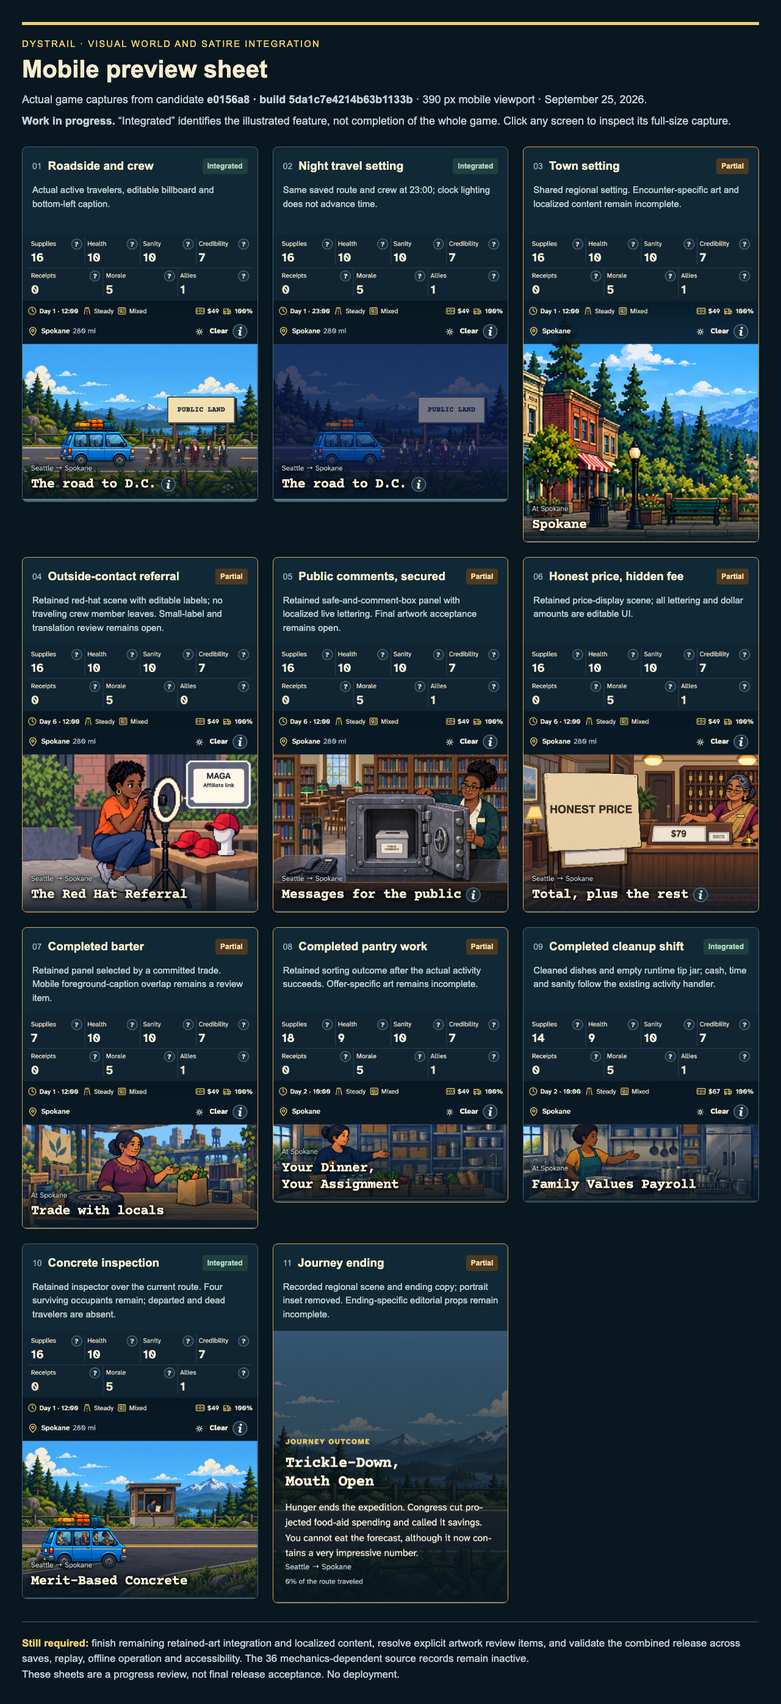
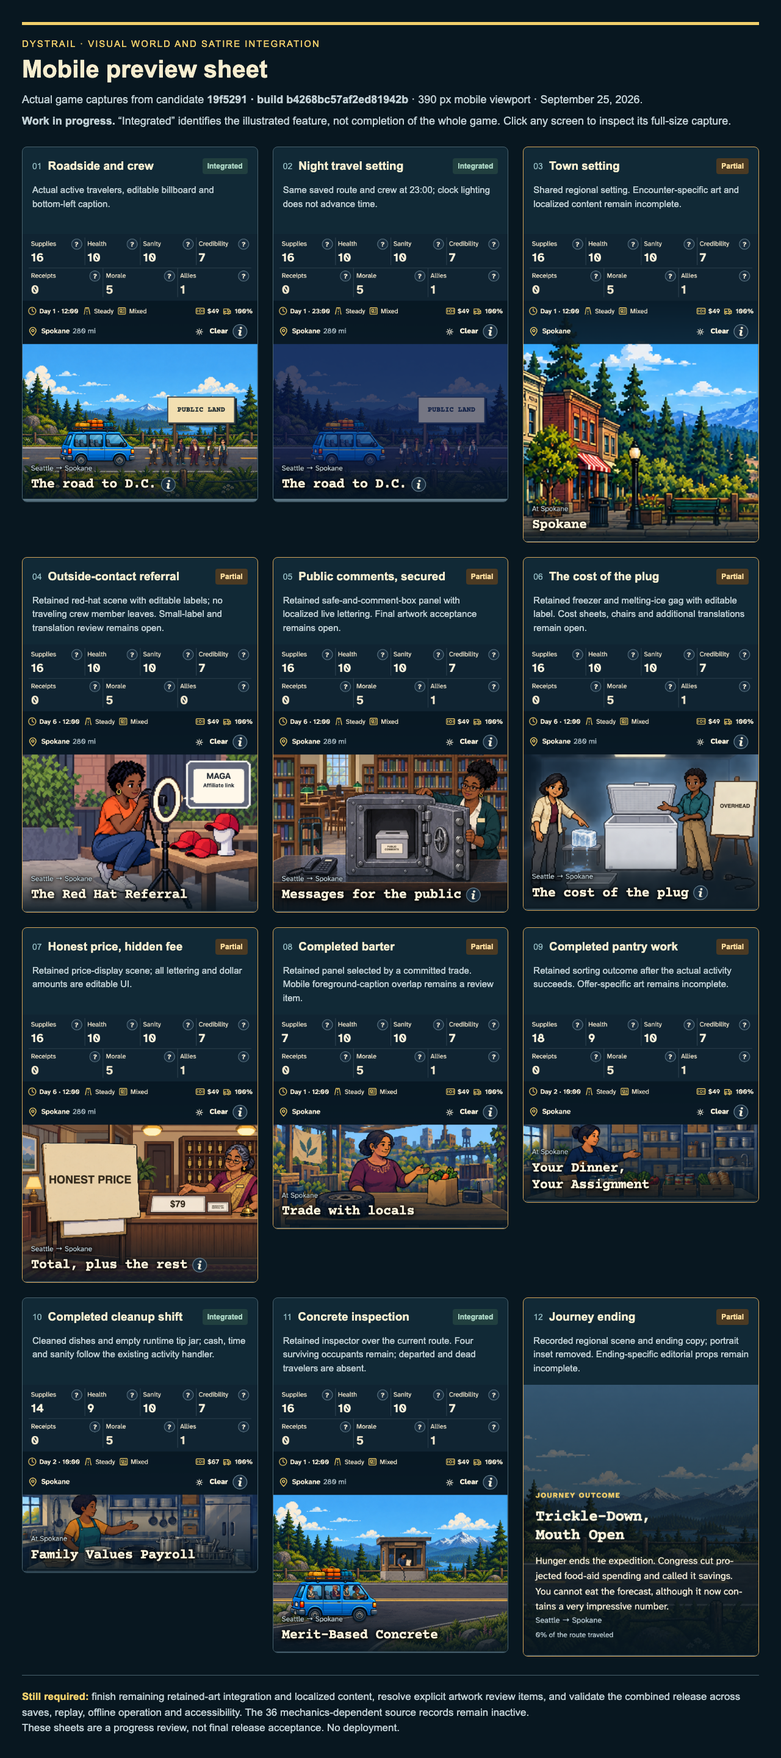
docs: include retained overhead scene in progress previews

diff --git a/review/recovery/current-previews/desktop.html b/review/recovery/current-previews/desktop.html
@@ -1,4 +1,4 @@
 <!doctype html><html lang="en"><meta charset="utf-8"><meta name="viewport" content="width=device-width,initial-scale=1"><title>Dystrail · desktop preview sheet</title><style>
   *{box-sizing:border-box}body{margin:0;background:#081720;color:#f6edcf;font-family:Arial,sans-serif;padding:36px}header{border-top:5px solid #f1cf6b;padding-top:22px;margin-bottom:28px}small{font-size:15px;letter-spacing:2px;text-transform:uppercase;color:#f1cf6b}h1{font-size:40px;margin:10px 0 14px}header p{font-size:18px;line-height:1.5;max-width:1200px;margin:8px 0;color:#c1d0d5}.grid{display:grid;grid-template-columns:repeat(2,minmax(0,1fr));gap:24px;align-items:start}article{border:1px solid #48616d;border-radius:8px;overflow:hidden;background:#112936}article.partial{border-color:#d3a359}.card-head{display:flex;align-items:center;gap:10px;padding:18px 16px 0}.number{color:#91b9c0;font-size:14px}h2{font-size:19px;line-height:1.25;margin:0;flex:1}b{color:#acd6c5;background:#213f3f;font-size:12px;padding:6px 8px;border-radius:4px;white-space:nowrap}.partial b{color:#ffe0a0;background:#4b3a23}article p{font-size:15px;line-height:1.5;color:#c1d0d5;padding:0 16px;min-height:68px}a{display:block}img{display:block;width:100%;height:auto}footer{border-top:1px solid #48616d;margin-top:30px;padding-top:22px;font-size:17px;line-height:1.5;color:#c1d0d5}footer strong{color:#f1cf6b}
   @media(max-width:800px){body{padding:16px}.grid{grid-template-columns:1fr}h1{font-size:30px}}
-  </style><header><small>Dystrail · visual world and satire integration</small><h1>Desktop preview sheet</h1><p>Actual game captures from candidate <strong>e0156a8 · build 5da1c7e4214b63b1133b</strong> · 1440 px desktop viewport · September 25, 2026.</p><p><strong>Work in progress.</strong> “Integrated” identifies the illustrated feature, not completion of the whole game. Click any screen to inspect its full-size capture.</p></header><main class="grid"><article class=""><div class="card-head"><span class="number">01</span><h2>Roadside and crew</h2><b>Integrated</b></div><p>Actual active travelers, editable billboard and bottom-left caption.</p><a href="desktop/road/shot-0.png"><img alt="Roadside and crew: actual desktop game capture" src="desktop/road/shot-0.png"></a></article><article class=""><div class="card-head"><span class="number">02</span><h2>Night travel setting</h2><b>Integrated</b></div><p>Same saved route and crew at 23:00; clock lighting does not advance time.</p><a href="desktop/night/shot-0.png"><img alt="Night travel setting: actual desktop game capture" src="desktop/night/shot-0.png"></a></article><article class="partial"><div class="card-head"><span class="number">03</span><h2>Town setting</h2><b>Partial</b></div><p>Shared regional setting. Encounter-specific art and localized content remain incomplete.</p><a href="desktop/town/shot-0.png"><img alt="Town setting: actual desktop game capture" src="desktop/town/shot-0.png"></a></article><article class="partial"><div class="card-head"><span class="number">04</span><h2>Outside-contact referral</h2><b>Partial</b></div><p>Retained red-hat scene with editable labels; no traveling crew member leaves. Small-label and translation review remains open.</p><a href="desktop/ally/shot-0.png"><img alt="Outside-contact referral: actual desktop game capture" src="desktop/ally/shot-0.png"></a></article><article class="partial"><div class="card-head"><span class="number">05</span><h2>Public comments, secured</h2><b>Partial</b></div><p>Retained safe-and-comment-box panel with localized live lettering. Final artwork acceptance remains open.</p><a href="desktop/safe/shot-0.png"><img alt="Public comments, secured: actual desktop game capture" src="desktop/safe/shot-0.png"></a></article><article class="partial"><div class="card-head"><span class="number">06</span><h2>Honest price, hidden fee</h2><b>Partial</b></div><p>Retained price-display scene; all lettering and dollar amounts are editable UI.</p><a href="desktop/fees/shot-0.png"><img alt="Honest price, hidden fee: actual desktop game capture" src="desktop/fees/shot-0.png"></a></article><article class="partial"><div class="card-head"><span class="number">07</span><h2>Completed barter</h2><b>Partial</b></div><p>Retained panel selected by a committed trade. Mobile foreground-caption overlap remains a review item.</p><a href="desktop/trade/shot-0.png"><img alt="Completed barter: actual desktop game capture" src="desktop/trade/shot-0.png"></a></article><article class="partial"><div class="card-head"><span class="number">08</span><h2>Completed pantry work</h2><b>Partial</b></div><p>Retained sorting outcome after the actual activity succeeds. Offer-specific art remains incomplete.</p><a href="desktop/pantry/shot-0.png"><img alt="Completed pantry work: actual desktop game capture" src="desktop/pantry/shot-0.png"></a></article><article class=""><div class="card-head"><span class="number">09</span><h2>Completed cleanup shift</h2><b>Integrated</b></div><p>Cleaned dishes and empty runtime tip jar; cash, time and sanity follow the existing activity handler.</p><a href="desktop/cleanup/shot-0.png"><img alt="Completed cleanup shift: actual desktop game capture" src="desktop/cleanup/shot-0.png"></a></article><article class=""><div class="card-head"><span class="number">10</span><h2>Concrete inspection</h2><b>Integrated</b></div><p>Retained inspector over the current route. Four surviving occupants remain; departed and dead travelers are absent.</p><a href="desktop/crossing/shot-0.png"><img alt="Concrete inspection: actual desktop game capture" src="desktop/crossing/shot-0.png"></a></article><article class="partial"><div class="card-head"><span class="number">11</span><h2>Journey ending</h2><b>Partial</b></div><p>Recorded regional scene and ending copy; portrait inset removed. Ending-specific editorial props remain incomplete.</p><a href="desktop/ending/shot-0.png"><img alt="Journey ending: actual desktop game capture" src="desktop/ending/shot-0.png"></a></article></main><footer><strong>Still required:</strong> finish remaining retained-art integration and localized content, resolve explicit artwork review items, and validate the combined release across saves, replay, offline operation and accessibility. The 36 mechanics-dependent source records remain inactive.<br>These sheets are a progress review, not final release acceptance. No deployment.</footer></html>
+  </style><header><small>Dystrail · visual world and satire integration</small><h1>Desktop preview sheet</h1><p>Actual game captures from candidate <strong>19f5291 · build b4268bc57af2ed81942b</strong> · 1440 px desktop viewport · September 25, 2026.</p><p><strong>Work in progress.</strong> “Integrated” identifies the illustrated feature, not completion of the whole game. Click any screen to inspect its full-size capture.</p></header><main class="grid"><article class=""><div class="card-head"><span class="number">01</span><h2>Roadside and crew</h2><b>Integrated</b></div><p>Actual active travelers, editable billboard and bottom-left caption.</p><a href="desktop/road/shot-0.png"><img alt="Roadside and crew: actual desktop game capture" src="desktop/road/shot-0.png"></a></article><article class=""><div class="card-head"><span class="number">02</span><h2>Night travel setting</h2><b>Integrated</b></div><p>Same saved route and crew at 23:00; clock lighting does not advance time.</p><a href="desktop/night/shot-0.png"><img alt="Night travel setting: actual desktop game capture" src="desktop/night/shot-0.png"></a></article><article class="partial"><div class="card-head"><span class="number">03</span><h2>Town setting</h2><b>Partial</b></div><p>Shared regional setting. Encounter-specific art and localized content remain incomplete.</p><a href="desktop/town/shot-0.png"><img alt="Town setting: actual desktop game capture" src="desktop/town/shot-0.png"></a></article><article class="partial"><div class="card-head"><span class="number">04</span><h2>Outside-contact referral</h2><b>Partial</b></div><p>Retained red-hat scene with editable labels; no traveling crew member leaves. Small-label and translation review remains open.</p><a href="desktop/ally/shot-0.png"><img alt="Outside-contact referral: actual desktop game capture" src="desktop/ally/shot-0.png"></a></article><article class="partial"><div class="card-head"><span class="number">05</span><h2>Public comments, secured</h2><b>Partial</b></div><p>Retained safe-and-comment-box panel with localized live lettering. Final artwork acceptance remains open.</p><a href="desktop/safe/shot-0.png"><img alt="Public comments, secured: actual desktop game capture" src="desktop/safe/shot-0.png"></a></article><article class="partial"><div class="card-head"><span class="number">06</span><h2>The cost of the plug</h2><b>Partial</b></div><p>Retained freezer and melting-ice gag with editable label. Cost sheets, chairs and additional translations remain open.</p><a href="desktop/overhead/shot-0.png"><img alt="The cost of the plug: actual desktop game capture" src="desktop/overhead/shot-0.png"></a></article><article class="partial"><div class="card-head"><span class="number">07</span><h2>Honest price, hidden fee</h2><b>Partial</b></div><p>Retained price-display scene; all lettering and dollar amounts are editable UI.</p><a href="desktop/fees/shot-0.png"><img alt="Honest price, hidden fee: actual desktop game capture" src="desktop/fees/shot-0.png"></a></article><article class="partial"><div class="card-head"><span class="number">08</span><h2>Completed barter</h2><b>Partial</b></div><p>Retained panel selected by a committed trade. Mobile foreground-caption overlap remains a review item.</p><a href="desktop/trade/shot-0.png"><img alt="Completed barter: actual desktop game capture" src="desktop/trade/shot-0.png"></a></article><article class="partial"><div class="card-head"><span class="number">09</span><h2>Completed pantry work</h2><b>Partial</b></div><p>Retained sorting outcome after the actual activity succeeds. Offer-specific art remains incomplete.</p><a href="desktop/pantry/shot-0.png"><img alt="Completed pantry work: actual desktop game capture" src="desktop/pantry/shot-0.png"></a></article><article class=""><div class="card-head"><span class="number">10</span><h2>Completed cleanup shift</h2><b>Integrated</b></div><p>Cleaned dishes and empty runtime tip jar; cash, time and sanity follow the existing activity handler.</p><a href="desktop/cleanup/shot-0.png"><img alt="Completed cleanup shift: actual desktop game capture" src="desktop/cleanup/shot-0.png"></a></article><article class=""><div class="card-head"><span class="number">11</span><h2>Concrete inspection</h2><b>Integrated</b></div><p>Retained inspector over the current route. Four surviving occupants remain; departed and dead travelers are absent.</p><a href="desktop/crossing/shot-0.png"><img alt="Concrete inspection: actual desktop game capture" src="desktop/crossing/shot-0.png"></a></article><article class="partial"><div class="card-head"><span class="number">12</span><h2>Journey ending</h2><b>Partial</b></div><p>Recorded regional scene and ending copy; portrait inset removed. Ending-specific editorial props remain incomplete.</p><a href="desktop/ending/shot-0.png"><img alt="Journey ending: actual desktop game capture" src="desktop/ending/shot-0.png"></a></article></main><footer><strong>Still required:</strong> finish remaining retained-art integration and localized content, resolve explicit artwork review items, and validate the combined release across saves, replay, offline operation and accessibility. The 36 mechanics-dependent source records remain inactive.<br>These sheets are a progress review, not final release acceptance. No deployment.</footer></html>

diff --git a/review/recovery/current-previews/mobile.html b/review/recovery/current-previews/mobile.html
@@ -1,4 +1,4 @@
 <!doctype html><html lang="en"><meta charset="utf-8"><meta name="viewport" content="width=device-width,initial-scale=1"><title>Dystrail · mobile preview sheet</title><style>
   *{box-sizing:border-box}body{margin:0;background:#081720;color:#f6edcf;font-family:Arial,sans-serif;padding:36px}header{border-top:5px solid #f1cf6b;padding-top:22px;margin-bottom:28px}small{font-size:15px;letter-spacing:2px;text-transform:uppercase;color:#f1cf6b}h1{font-size:40px;margin:10px 0 14px}header p{font-size:18px;line-height:1.5;max-width:1200px;margin:8px 0;color:#c1d0d5}.grid{display:grid;grid-template-columns:repeat(3,minmax(0,1fr));gap:24px;align-items:start}article{border:1px solid #48616d;border-radius:8px;overflow:hidden;background:#112936}article.partial{border-color:#d3a359}.card-head{display:flex;align-items:center;gap:10px;padding:18px 16px 0}.number{color:#91b9c0;font-size:14px}h2{font-size:19px;line-height:1.25;margin:0;flex:1}b{color:#acd6c5;background:#213f3f;font-size:12px;padding:6px 8px;border-radius:4px;white-space:nowrap}.partial b{color:#ffe0a0;background:#4b3a23}article p{font-size:15px;line-height:1.5;color:#c1d0d5;padding:0 16px;min-height:68px}a{display:block}img{display:block;width:100%;height:auto}footer{border-top:1px solid #48616d;margin-top:30px;padding-top:22px;font-size:17px;line-height:1.5;color:#c1d0d5}footer strong{color:#f1cf6b}
   @media(max-width:800px){body{padding:16px}.grid{grid-template-columns:1fr}h1{font-size:30px}}
-  </style><header><small>Dystrail · visual world and satire integration</small><h1>Mobile preview sheet</h1><p>Actual game captures from candidate <strong>e0156a8 · build 5da1c7e4214b63b1133b</strong> · 390 px mobile viewport · September 25, 2026.</p><p><strong>Work in progress.</strong> “Integrated” identifies the illustrated feature, not completion of the whole game. Click any screen to inspect its full-size capture.</p></header><main class="grid"><article class=""><div class="card-head"><span class="number">01</span><h2>Roadside and crew</h2><b>Integrated</b></div><p>Actual active travelers, editable billboard and bottom-left caption.</p><a href="mobile/road/shot-0.png"><img alt="Roadside and crew: actual mobile game capture" src="mobile/road/shot-0.png"></a></article><article class=""><div class="card-head"><span class="number">02</span><h2>Night travel setting</h2><b>Integrated</b></div><p>Same saved route and crew at 23:00; clock lighting does not advance time.</p><a href="mobile/night/shot-0.png"><img alt="Night travel setting: actual mobile game capture" src="mobile/night/shot-0.png"></a></article><article class="partial"><div class="card-head"><span class="number">03</span><h2>Town setting</h2><b>Partial</b></div><p>Shared regional setting. Encounter-specific art and localized content remain incomplete.</p><a href="mobile/town/shot-0.png"><img alt="Town setting: actual mobile game capture" src="mobile/town/shot-0.png"></a></article><article class="partial"><div class="card-head"><span class="number">04</span><h2>Outside-contact referral</h2><b>Partial</b></div><p>Retained red-hat scene with editable labels; no traveling crew member leaves. Small-label and translation review remains open.</p><a href="mobile/ally/shot-0.png"><img alt="Outside-contact referral: actual mobile game capture" src="mobile/ally/shot-0.png"></a></article><article class="partial"><div class="card-head"><span class="number">05</span><h2>Public comments, secured</h2><b>Partial</b></div><p>Retained safe-and-comment-box panel with localized live lettering. Final artwork acceptance remains open.</p><a href="mobile/safe/shot-0.png"><img alt="Public comments, secured: actual mobile game capture" src="mobile/safe/shot-0.png"></a></article><article class="partial"><div class="card-head"><span class="number">06</span><h2>Honest price, hidden fee</h2><b>Partial</b></div><p>Retained price-display scene; all lettering and dollar amounts are editable UI.</p><a href="mobile/fees/shot-0.png"><img alt="Honest price, hidden fee: actual mobile game capture" src="mobile/fees/shot-0.png"></a></article><article class="partial"><div class="card-head"><span class="number">07</span><h2>Completed barter</h2><b>Partial</b></div><p>Retained panel selected by a committed trade. Mobile foreground-caption overlap remains a review item.</p><a href="mobile/trade/shot-0.png"><img alt="Completed barter: actual mobile game capture" src="mobile/trade/shot-0.png"></a></article><article class="partial"><div class="card-head"><span class="number">08</span><h2>Completed pantry work</h2><b>Partial</b></div><p>Retained sorting outcome after the actual activity succeeds. Offer-specific art remains incomplete.</p><a href="mobile/pantry/shot-0.png"><img alt="Completed pantry work: actual mobile game capture" src="mobile/pantry/shot-0.png"></a></article><article class=""><div class="card-head"><span class="number">09</span><h2>Completed cleanup shift</h2><b>Integrated</b></div><p>Cleaned dishes and empty runtime tip jar; cash, time and sanity follow the existing activity handler.</p><a href="mobile/cleanup/shot-0.png"><img alt="Completed cleanup shift: actual mobile game capture" src="mobile/cleanup/shot-0.png"></a></article><article class=""><div class="card-head"><span class="number">10</span><h2>Concrete inspection</h2><b>Integrated</b></div><p>Retained inspector over the current route. Four surviving occupants remain; departed and dead travelers are absent.</p><a href="mobile/crossing/shot-0.png"><img alt="Concrete inspection: actual mobile game capture" src="mobile/crossing/shot-0.png"></a></article><article class="partial"><div class="card-head"><span class="number">11</span><h2>Journey ending</h2><b>Partial</b></div><p>Recorded regional scene and ending copy; portrait inset removed. Ending-specific editorial props remain incomplete.</p><a href="mobile/ending/shot-0.png"><img alt="Journey ending: actual mobile game capture" src="mobile/ending/shot-0.png"></a></article></main><footer><strong>Still required:</strong> finish remaining retained-art integration and localized content, resolve explicit artwork review items, and validate the combined release across saves, replay, offline operation and accessibility. The 36 mechanics-dependent source records remain inactive.<br>These sheets are a progress review, not final release acceptance. No deployment.</footer></html>
+  </style><header><small>Dystrail · visual world and satire integration</small><h1>Mobile preview sheet</h1><p>Actual game captures from candidate <strong>19f5291 · build b4268bc57af2ed81942b</strong> · 390 px mobile viewport · September 25, 2026.</p><p><strong>Work in progress.</strong> “Integrated” identifies the illustrated feature, not completion of the whole game. Click any screen to inspect its full-size capture.</p></header><main class="grid"><article class=""><div class="card-head"><span class="number">01</span><h2>Roadside and crew</h2><b>Integrated</b></div><p>Actual active travelers, editable billboard and bottom-left caption.</p><a href="mobile/road/shot-0.png"><img alt="Roadside and crew: actual mobile game capture" src="mobile/road/shot-0.png"></a></article><article class=""><div class="card-head"><span class="number">02</span><h2>Night travel setting</h2><b>Integrated</b></div><p>Same saved route and crew at 23:00; clock lighting does not advance time.</p><a href="mobile/night/shot-0.png"><img alt="Night travel setting: actual mobile game capture" src="mobile/night/shot-0.png"></a></article><article class="partial"><div class="card-head"><span class="number">03</span><h2>Town setting</h2><b>Partial</b></div><p>Shared regional setting. Encounter-specific art and localized content remain incomplete.</p><a href="mobile/town/shot-0.png"><img alt="Town setting: actual mobile game capture" src="mobile/town/shot-0.png"></a></article><article class="partial"><div class="card-head"><span class="number">04</span><h2>Outside-contact referral</h2><b>Partial</b></div><p>Retained red-hat scene with editable labels; no traveling crew member leaves. Small-label and translation review remains open.</p><a href="mobile/ally/shot-0.png"><img alt="Outside-contact referral: actual mobile game capture" src="mobile/ally/shot-0.png"></a></article><article class="partial"><div class="card-head"><span class="number">05</span><h2>Public comments, secured</h2><b>Partial</b></div><p>Retained safe-and-comment-box panel with localized live lettering. Final artwork acceptance remains open.</p><a href="mobile/safe/shot-0.png"><img alt="Public comments, secured: actual mobile game capture" src="mobile/safe/shot-0.png"></a></article><article class="partial"><div class="card-head"><span class="number">06</span><h2>The cost of the plug</h2><b>Partial</b></div><p>Retained freezer and melting-ice gag with editable label. Cost sheets, chairs and additional translations remain open.</p><a href="mobile/overhead/shot-0.png"><img alt="The cost of the plug: actual mobile game capture" src="mobile/overhead/shot-0.png"></a></article><article class="partial"><div class="card-head"><span class="number">07</span><h2>Honest price, hidden fee</h2><b>Partial</b></div><p>Retained price-display scene; all lettering and dollar amounts are editable UI.</p><a href="mobile/fees/shot-0.png"><img alt="Honest price, hidden fee: actual mobile game capture" src="mobile/fees/shot-0.png"></a></article><article class="partial"><div class="card-head"><span class="number">08</span><h2>Completed barter</h2><b>Partial</b></div><p>Retained panel selected by a committed trade. Mobile foreground-caption overlap remains a review item.</p><a href="mobile/trade/shot-0.png"><img alt="Completed barter: actual mobile game capture" src="mobile/trade/shot-0.png"></a></article><article class="partial"><div class="card-head"><span class="number">09</span><h2>Completed pantry work</h2><b>Partial</b></div><p>Retained sorting outcome after the actual activity succeeds. Offer-specific art remains incomplete.</p><a href="mobile/pantry/shot-0.png"><img alt="Completed pantry work: actual mobile game capture" src="mobile/pantry/shot-0.png"></a></article><article class=""><div class="card-head"><span class="number">10</span><h2>Completed cleanup shift</h2><b>Integrated</b></div><p>Cleaned dishes and empty runtime tip jar; cash, time and sanity follow the existing activity handler.</p><a href="mobile/cleanup/shot-0.png"><img alt="Completed cleanup shift: actual mobile game capture" src="mobile/cleanup/shot-0.png"></a></article><article class=""><div class="card-head"><span class="number">11</span><h2>Concrete inspection</h2><b>Integrated</b></div><p>Retained inspector over the current route. Four surviving occupants remain; departed and dead travelers are absent.</p><a href="mobile/crossing/shot-0.png"><img alt="Concrete inspection: actual mobile game capture" src="mobile/crossing/shot-0.png"></a></article><article class="partial"><div class="card-head"><span class="number">12</span><h2>Journey ending</h2><b>Partial</b></div><p>Recorded regional scene and ending copy; portrait inset removed. Ending-specific editorial props remain incomplete.</p><a href="mobile/ending/shot-0.png"><img alt="Journey ending: actual mobile game capture" src="mobile/ending/shot-0.png"></a></article></main><footer><strong>Still required:</strong> finish remaining retained-art integration and localized content, resolve explicit artwork review items, and validate the combined release across saves, replay, offline operation and accessibility. The 36 mechanics-dependent source records remain inactive.<br>These sheets are a progress review, not final release acceptance. No deployment.</footer></html>

diff --git a/dystrail-web/tests-e2e/current-previews.spec.ts b/dystrail-web/tests-e2e/current-previews.spec.ts
@@ -11,7 +11,7 @@ test('capture current integrated visual-world previews',async({page,context},inf
  const base=await baseline(page);base.seed=42;base.turn_journal_start=null;
  const copy=JSON.parse(readFileSync('i18n/en.json','utf8')).encounter_copy;
  const device=info.project.name==='mobile'?'mobile':'desktop';
- for(const id of ['road','night','town','ally','safe','fees','trade','pantry','cleanup','crossing','ending']){
+ for(const id of ['road','night','town','ally','safe','overhead','fees','trade','pantry','cleanup','crossing','ending']){
   const s=structuredClone(base);s.clock_minutes=id==='night'?1380:720;
   if(['town','trade','pantry','cleanup'].includes(id)) atTown(s,'Spokane');
   if(id==='pantry'||id==='cleanup'){
@@ -32,8 +32,8 @@ test('capture current integrated visual-world previews',async({page,context},inf
    e.before=structuredClone(s.stats);e.before.allies=1;e.after=structuredClone(s.stats);e.resources=[];e.details=[];
    s.ally_notice=e;s.journal.push(e);
   }
-  if(id==='safe'||id==='fees'){
-   const unit=id==='safe'?'ENC-C09-C':'ENC-C12-C';
+  if(['safe','overhead','fees'].includes(id)){
+   const unit=id==='safe'?'ENC-C09-C':id==='overhead'?'ENC-C11-A':'ENC-C12-C';
    const source=JSON.parse(readFileSync('../review/recovery/current-source-records.json','utf8')).units.find((u:any)=>u.id===unit);
    s.current_encounter=JSON.parse(readFileSync('static/assets/data/game.json','utf8')).find((e:any)=>e.id===source.runtime_key);
    s.day=6;s.last_encounter_driving_minutes=300;s.driving_minutes_total=300;
@@ -63,6 +63,7 @@ test('capture current integrated visual-world previews',async({page,context},inf
    await expect(page.locator('[data-activity-unit]')).toHaveAttribute('data-activity-unit',unit);
   }
   if(id==='crossing')await expect(page.locator('.van-occupant')).toHaveCount(4);
+  if(id==='overhead')await expect(page.locator('.scene-atlas[data-atlas="road-c11-a-20260914"]')).toHaveAttribute('data-cell','0');
   const target=page.locator(id==='ending'?'.result-art':'.world-view');
   await expect(target).toBeVisible();
   const out=resolve('../review/recovery/current-previews',device,id);mkdirSync(out,{recursive:true});
